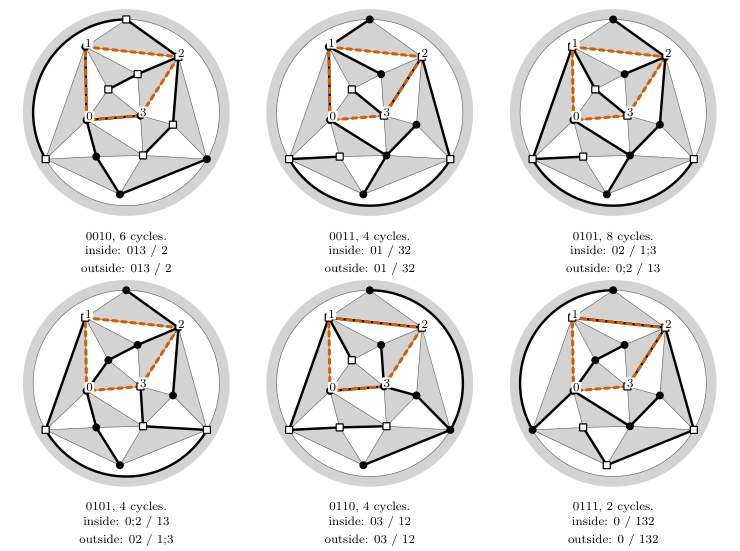
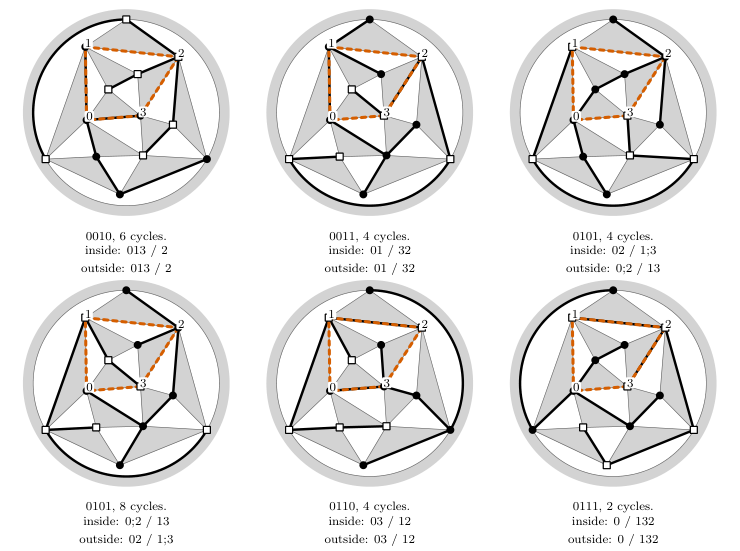
Refresh final proposed-figure inspection images and provenance

diff --git a/research/2026-11-14_sol_atlas-audit/AUDIT.md b/research/2026-11-14_sol_atlas-audit/AUDIT.md
@@ -1,6 +1,6 @@
 # Atlas audit
 
[2 lines of base64/hex data omitted]
 
 ## Verdict and scope
 

diff --git a/research/2026-11-14_sol_atlas-audit/REPORT.md b/research/2026-11-14_sol_atlas-audit/REPORT.md
@@ -55,3 +55,5 @@ The atlas owner must integrate the exact proposals into a fresh build, update so
 ## Git and files
 
 First stable commit 25d5bcd records the target snapshot and independent baseline. Later commits contain only this folder and digestions/atlas/proposed/. AUDIT.md is the page-by-page review; EDITS.md gives literal old/new replacements; code/README.md gives commands and output provenance. The final commit and push result are reported in chat. No live atlas source was edited by this review.
+
+Git update. The main review commit is f224391. The first push to origin/main succeeded. A final small commit refreshes the inspection PNGs after the final figure layout changes.
